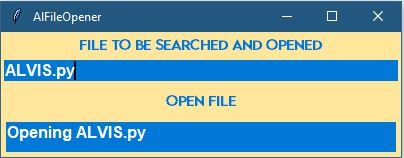
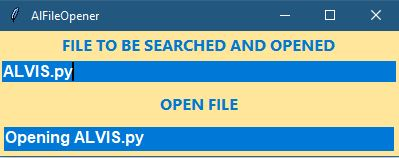
AlFileOpener

diff --git a/AlFileOpener.py b/AlFileOpener.py
@@ -61,17 +61,17 @@ class AlFileOpener():
                         speak('Set a default application to open the input file')
 
         appHighlightFont = font.Font(family='sans-serif', size=12, weight='bold')
-        textHighlightFont = font.Font(family='LEMON MILK', size=10, weight='bold')
+        textHighlightFont = font.Font(family='Segoe UI', size=12, weight='bold')
 
         #file widget
-        fileText = Label(root, text="File to be searched and opened")
+        fileText = Label(root, text="FILE TO BE SEARCHED AND OPENED")
         fileText.pack()
         fileText.config(bg=color,fg="#0078d7",font=textHighlightFont)
         fileText= Entry(root, bg="#0078d7", fg='white', highlightbackground=color, highlightcolor=color, highlightthickness=3, bd=0,font=appHighlightFont)
         fileText.pack(fill=X)
 
         #submit button
-        find = Button(root, borderwidth=0, highlightthickness=3, text="Open file", command=find)
+        find = Button(root, borderwidth=0, highlightthickness=3, text="OPEN FILE", command=find)
         find.config(bg=color,fg="#0078d7",font=textHighlightFont)
         find.pack(fill=X)
 
